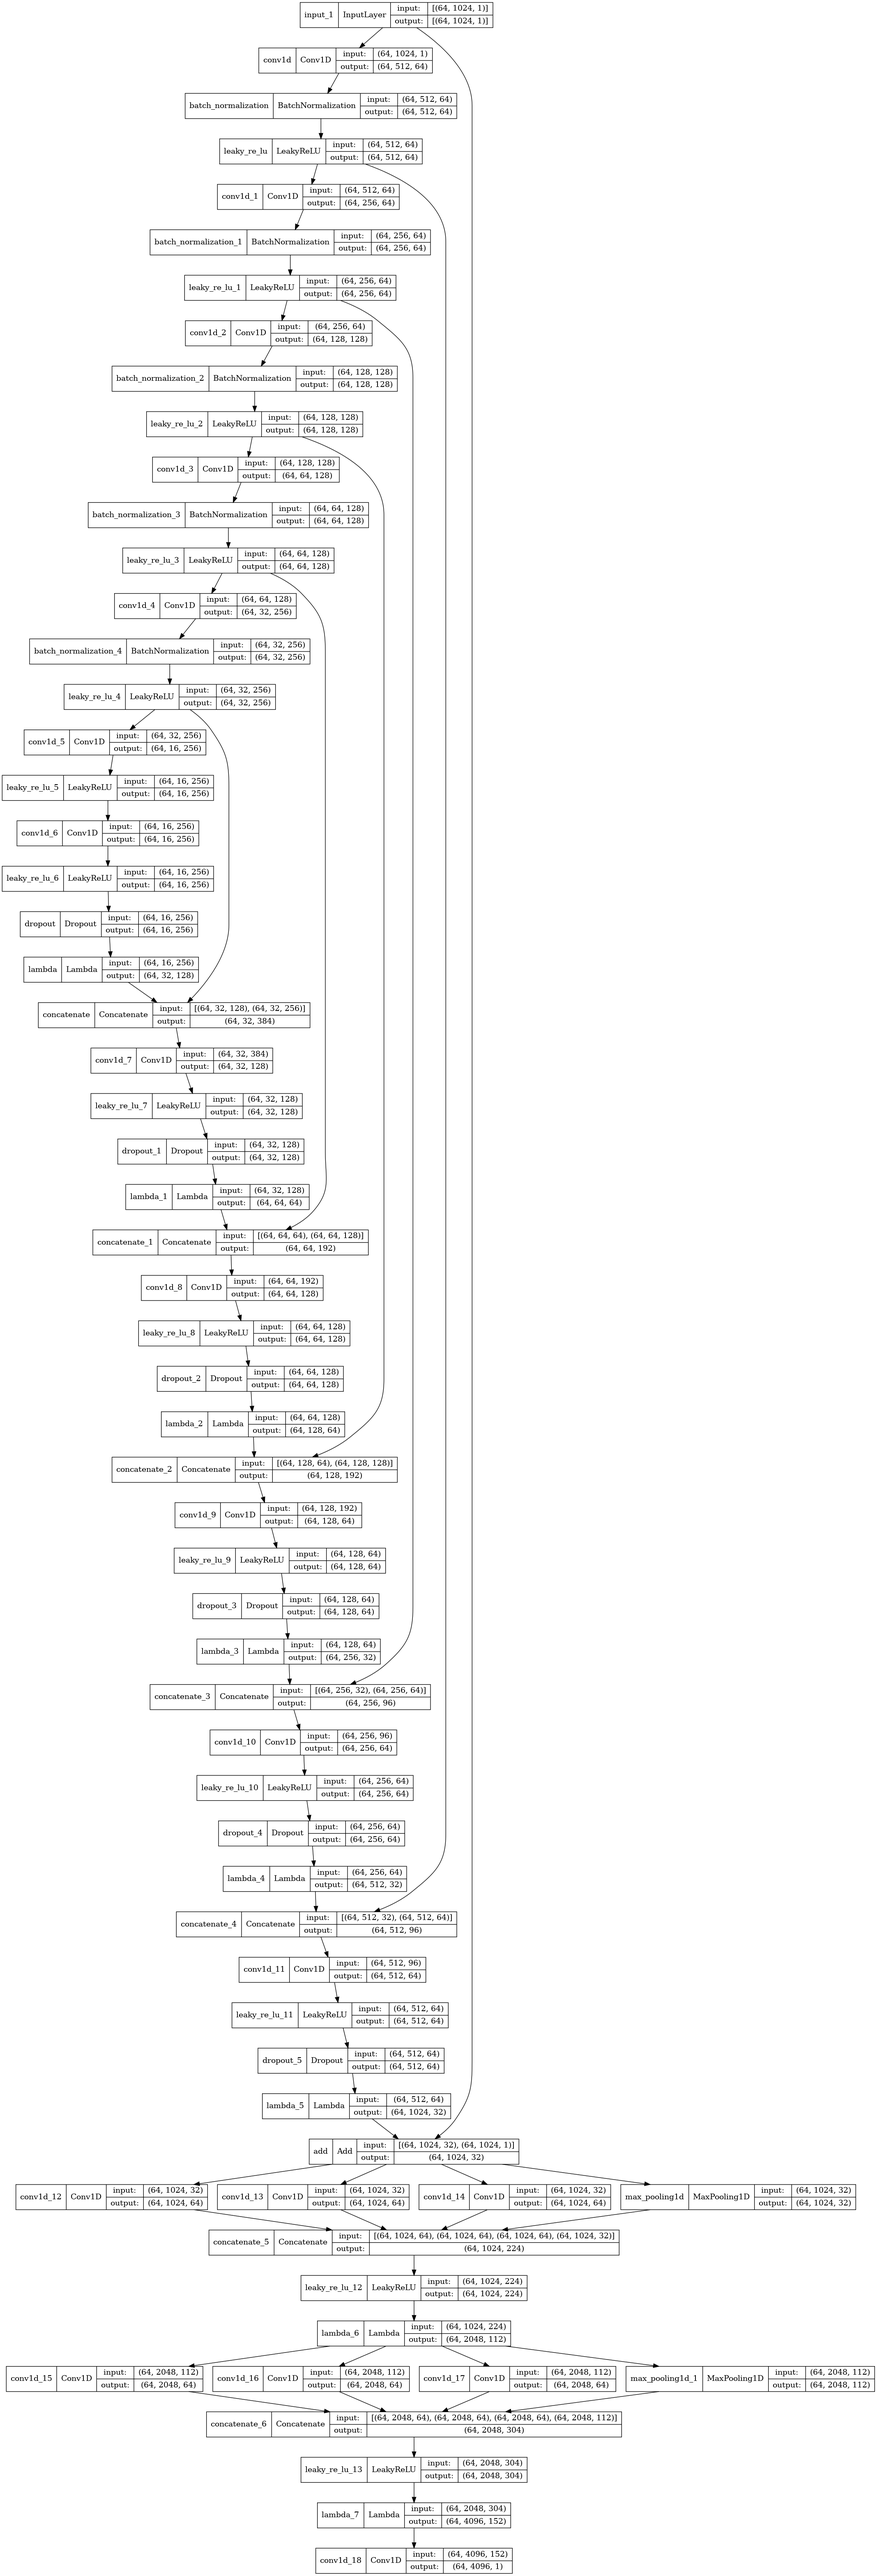
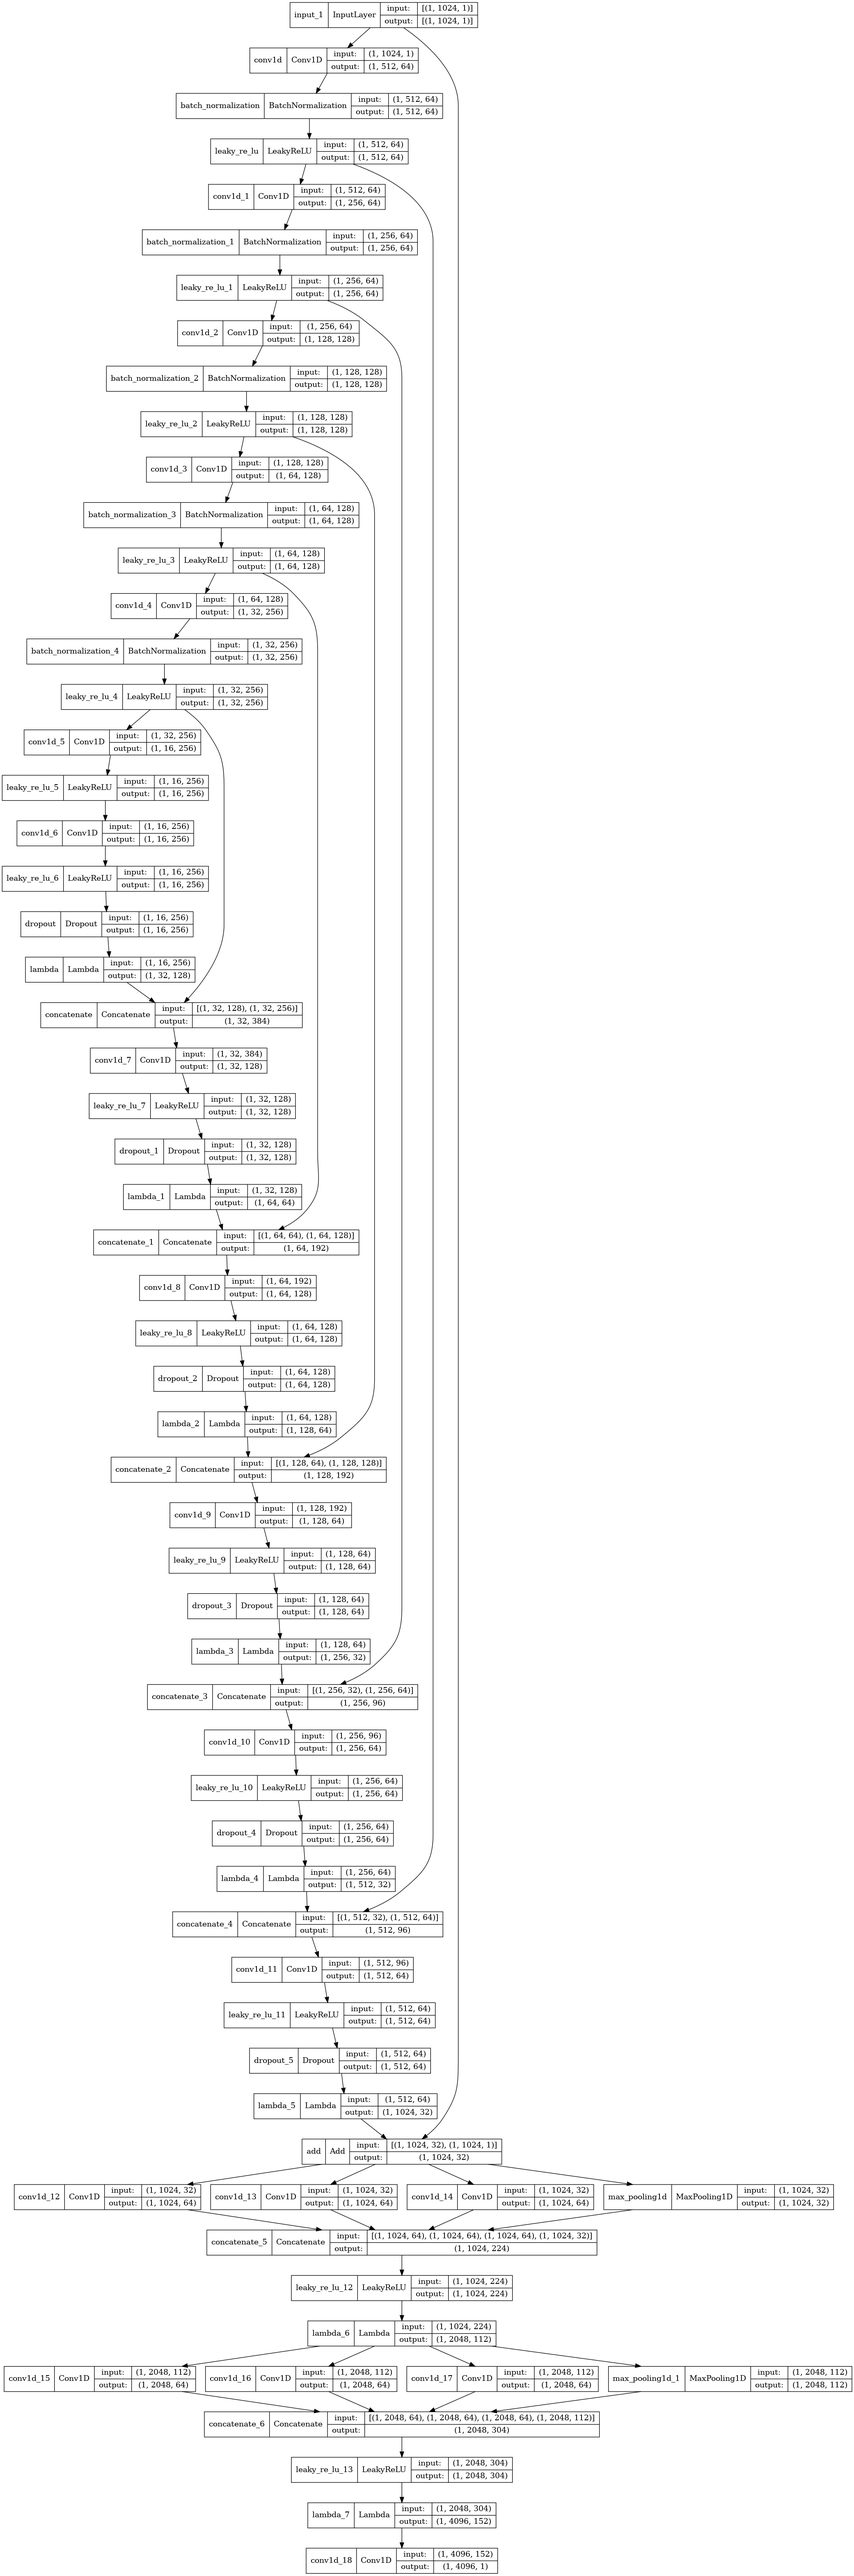
Add interpolation baselines

diff --git a/Project/compute_linear_interpolation_baseline.py b/Project/compute_linear_interpolation_baseline.py
@@ -6,20 +6,19 @@ _, _, (input_test_files, target_test_files) = DatasetGenerator.split_list_of_fil
 input_test_data, target_test_data = [], []
 
 snr_sum, mse_sum, nrmse_sum = 0, 0, 0
-cubic_spline_baseline = lambda x: DatasetGenerator.upsample(x, RESAMPLING_FACTOR)
+linear_baseline = lambda x: DatasetGenerator.linear_upsample(x, RESAMPLING_FACTOR)
 
 for index in range(0, NUMBER_OF_TESTING_TENSORS):
     low_resolution_patch = np.load("preprocessed_dataset/low_res/" + input_test_files[index])
     high_resolution_patch = np.load("preprocessed_dataset/high_res/" + target_test_files[index])
     low_resolution_patch = low_resolution_patch.reshape(low_resolution_patch.shape[0])
     high_resolution_patch = high_resolution_patch.reshape(high_resolution_patch.shape[0])
-    baseline_patch = cubic_spline_baseline(low_resolution_patch)
+    baseline_patch = linear_baseline(low_resolution_patch)
 
-    snr = signal_to_noise_ratio(K.constant(high_resolution_patch), K.constant(baseline_patch))
-    snr_sum += snr
+    snr_sum += signal_to_noise_ratio(K.constant(high_resolution_patch), K.constant(baseline_patch))
 
     print("Loaded testing sample {}".format(index))
 
 snr_mean = snr_sum / NUMBER_OF_TESTING_TENSORS
 
-print("SNR: {}".format(snr_mean))
+print("Linear interpolation baseline (mean SNR): {}".format(snr_mean))

diff --git a/Project/DatasetGenerator.py b/Project/DatasetGenerator.py
@@ -3,9 +3,11 @@ import tensorflow_datasets as tfds
 from scipy import interpolate
 from constants import *
 import tensorflow as tf
+import matplotlib.pyplot as plt
 import numpy as np
 import datetime
 import os
+from scipy.interpolate import interp1d
 
 
 class DatasetGenerator:
@@ -93,3 +95,16 @@ class DatasetGenerator:
         evaluated_spline = interpolate.splev(high_resolution_range, spline)
 
         return evaluated_spline
+
+    @staticmethod
+    def linear_upsample(low_resolution_array, resampling_factor):
+        low_resolution_array = low_resolution_array.flatten()
+        high_resolution_length = len(low_resolution_array) * resampling_factor
+
+        x = np.arange(0, len(low_resolution_array))
+        f = interp1d(x, low_resolution_array)
+
+        xnew = np.linspace(0, len(low_resolution_array) - 1, num=high_resolution_length)
+        ynew = f(xnew)
+
+        return ynew

diff --git a/Project/constants.py b/Project/constants.py
@@ -19,7 +19,7 @@ TESTING_DATA_SPLIT_PERCENTAGE = 0.1
 NUMBER_OF_TRAINING_TENSORS = int(TRAINING_DATA_SPLIT_PERCENTAGE * NUMBER_OF_FILES)
 NUMBER_OF_VALIDATION_TENSORS = int(VALIDATION_DATA_SPLIT_PERCENTAGE * NUMBER_OF_FILES)
 NUMBER_OF_TESTING_TENSORS = int(TESTING_DATA_SPLIT_PERCENTAGE * NUMBER_OF_FILES)
-BATCH_SIZE = 64  # The number of input tensors should be divisible by the batch size
+BATCH_SIZE = 1  # The number of input tensors should be divisible by the batch size
 CHECKPOINT_PATH = "checkpoints/checkpoint-epoch-{epoch:04d}-mse_validation_loss-{val_loss:10f}-nrmse_val-{" \
                   "val_normalised_root_mean_squared_error_validation:10f}.ckpt "
 CHECKPOINT_DIRECTORY = os.path.dirname(CHECKPOINT_PATH)
